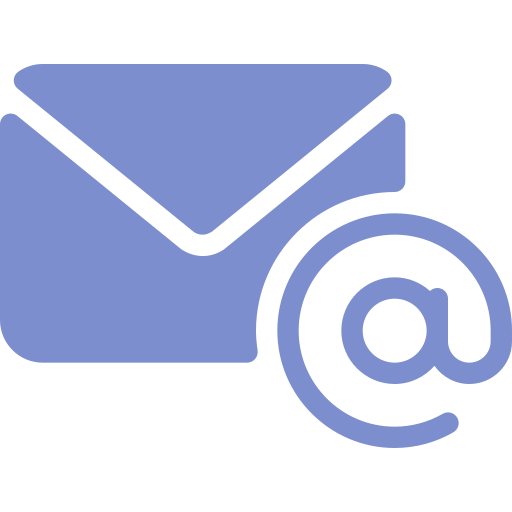
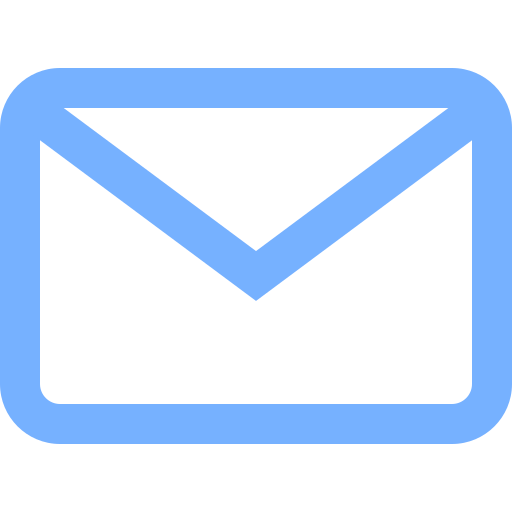
Corrections

diff --git a/Ingenia/Html/Css/LogIn-And-SessionLog-Style.css b/Ingenia/Html/Css/LogIn-And-SessionLog-Style.css
@@ -458,6 +458,7 @@ label{
 #file_frontdui_OCR,
 #file_backdui_OCR{ width: 100%; }
 .duiimg_container{
+    display: flex;
     width: 100px;
     height: 100px;
     border-radius: 50px;
@@ -465,7 +466,7 @@ label{
     justify-content: center;
     align-items: center;
 }
-.dui_img{ width: 80px; }
+.dui_img{ width: 100px; }
 .dui_card > article{ text-align: center; display: flex; flex-direction: column;}
 .main_duiimg_txt{ font-size: 14px;font-weight: bold; text-decoration: underline; display: none;}
 .sub_duiimg_txt{ font-size: 14px;color: var(--informative-text-); display: none; }
@@ -609,16 +610,22 @@ label{
 }
 p.show{ display: block; }
 #contact_information_container{ flex-direction: row; }
-#ocrInput_email_container{
+#ocrInput_email_container,
+#ocrInput_phonenumber_container{
     height: 400px;
+    width: 40%;
     border-radius: 20px;
     border: 2px solid var(--border-input-);
     background: linear-gradient(135deg, #ffffff 20%, #f6f8ff 100%);
+    align-items: center;
+    display: flex;
+    flex-direction: column;
+    gap: 10px;
 }
 article.input > input{
     height: 40px;
     border-radius: 15px;
-    border: 2px solid var(--border-input-);
+    border: 2px solid #e9ebed;
 }
 
 
@@ -727,7 +734,7 @@ article.input > input{
     #dui_information_container > section{ flex-direction: row; }
     .file_container{ width: 50%; }
     .duiimg_container { width: 150px; height: 150px; }
-    .dui_img { width: 100px; }
+    .dui_img { width: 80px; }
 }
 
 @media (max-width: 1020px){

diff --git a/Ingenia/Html/session-log-ocr.html b/Ingenia/Html/session-log-ocr.html
@@ -108,26 +108,26 @@
             </article>
             <article class="signup_section" id="contact_information_container">
                 <span></span>
-                <section class="input" id="ocrInput_email_container">
+                <section id="ocrInput_email_container">
                     <article class="duiimg_container">
                         <img src="Imágenes/correo-electronico.png" alt="" class="dui_img">
                     </article>
                     <article>
                         <p class="main_duiimg_txt">Correo electrónico</p>
                     </article>  
-                    <article>
+                    <article class="input">
                         <input type="email" class="input" id="input_email_OCR" placeholder="Correo electrónico">
                     </article>
                 </section>
                 <span></span>
-                <section class="input" id="ocrInput_phonenumber_container">
+                <section id="ocrInput_phonenumber_container">
                     <article class="duiimg_container">
                         <img src="Imágenes/correo-electronico.png" alt="" class="dui_img">
                     </article>
                     <article>
                         <p class="main_duiimg_txt">Correo electrónico</p>
                     </article>
-                    <article>
+                    <article class="input">
                         <input type="number" class="input" id="input_phonenumber_OCR" placeholder="Número telefónico">
                     </article>  
                 </section>

diff --git a/Ingenia/Html/Javascript/Main-Javascript.js b/Ingenia/Html/Javascript/Main-Javascript.js
@@ -1235,7 +1235,6 @@ function animationLoad(n){
 /* SESSION LOG OCR */
 async function validate_dui_info(data, n, msg, containers, loader){
     try{
-        console.log(JSON.stringify(usData_ocr));
         if(!(data.status === 'ok') && n !== 3){ throw new Error(data.error) }
         const required_fields = [
             ['firstname', 'birthdate', 'dui', 'lastname'], 
@@ -1244,8 +1243,6 @@ async function validate_dui_info(data, n, msg, containers, loader){
         ];
         const fields = required_fields[n-1];
         for(const field of fields){
-            console.log(field);
-            console.log(data[field]);
             if(!data[field]){ throw new Error(`Ingenia -${msg}`); }
             usData_ocr[field] = data[field];
         }
@@ -1302,8 +1299,6 @@ function dui_card(containers, loader){
     img_cntr.style.margin = '20px';
     img.src = 'Imágenes/eliminar.png';
     img.style.width = '60px';
-    console.log(title);
-    console.log(sub);
     title.textContent = 'Error al escanear.';
     sub.textContent = 'Inténtelo nuevamente';
 }